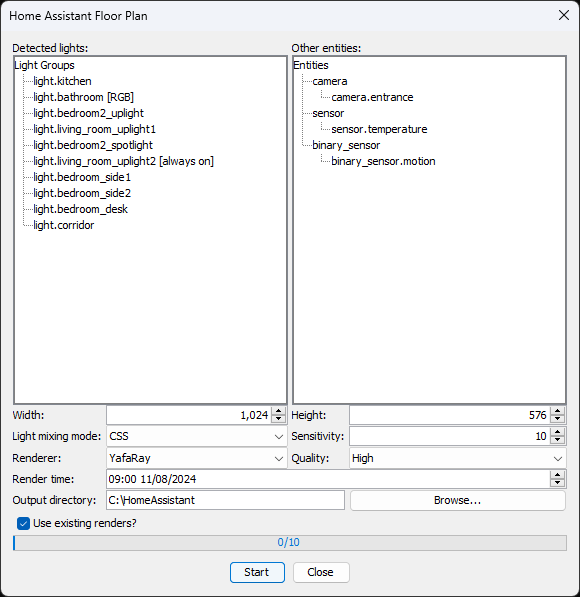
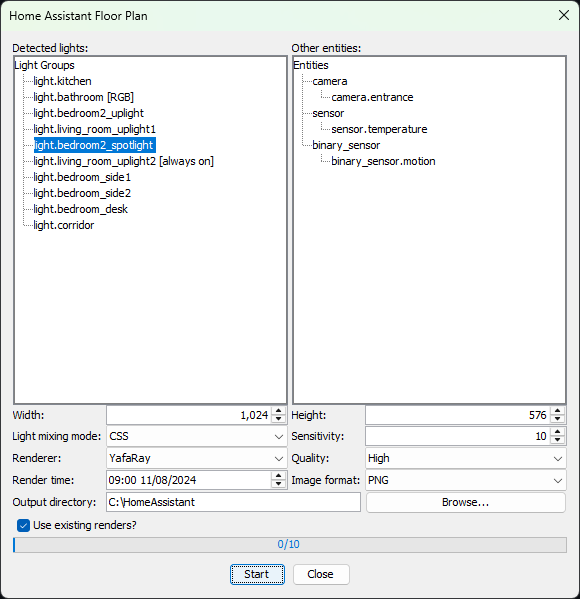
Allow exporting floor plan as JPEG images
Closes #92

diff --git a/src/com/shmuelzon/HomeAssistantFloorPlan/Controller.java b/src/com/shmuelzon/HomeAssistantFloorPlan/Controller.java
@@ -41,10 +41,11 @@ public class Controller {
     public enum LightMixingMode {CSS, OVERLAY, FULL}
     public enum Renderer {YAFARAY, SUNFLOW}
     public enum Quality {HIGH, LOW}
+    public enum ImageFormat {PNG, JPEG}
     public enum EntityDisplayType {BADGE, ICON, LABEL, NONE}
     public enum EntityTapAction {MORE_INFO, NONE, TOGGLE}
 
-    private static final String TRANSPARENT_FILE_NAME = "transparent.png";
+    private static final String TRANSPARENT_IMAGE_NAME = "transparent";
 
     private static final String CONTROLLER_RENDER_WIDTH = "renderWidth";
     private static final String CONTROLLER_RENDER_HEIGHT = "renderHeigh";
@@ -52,6 +53,7 @@ public class Controller {
     private static final String CONTROLLER_SENSITIVTY = "sensitivity";
     private static final String CONTROLLER_RENDERER = "renderer";
     private static final String CONTROLLER_QUALITY = "quality";
+    private static final String CONTROLLER_IMAGE_FORMAT = "imageFormat";
     private static final String CONTROLLER_RENDER_TIME = "renderTime";
     private static final String CONTROLLER_OUTPUT_DIRECTORY_NAME = "outputDirectoryName";
     private static final String CONTROLLER_USE_EXISTING_RENDERS = "useExistingRenders";
@@ -79,6 +81,7 @@ public class Controller {
     private int sensitivity;
     private Renderer renderer;
     private Quality quality;
+    private ImageFormat imageFormat;
     private long renderDateTime;
     private String outputDirectoryName;
     private String outputRendersDirectoryName;
@@ -126,6 +129,7 @@ public class Controller {
         sensitivity = settings.getInteger(CONTROLLER_SENSITIVTY, 10);
         renderer = Renderer.valueOf(settings.get(CONTROLLER_RENDERER, Renderer.YAFARAY.name()));
         quality = Quality.valueOf(settings.get(CONTROLLER_QUALITY, Quality.HIGH.name()));
+        imageFormat = ImageFormat.valueOf(settings.get(CONTROLLER_IMAGE_FORMAT, ImageFormat.PNG.name()));
         renderDateTime = settings.getLong(CONTROLLER_RENDER_TIME, camera.getTime());
         outputDirectoryName = settings.get(CONTROLLER_OUTPUT_DIRECTORY_NAME, System.getProperty("user.home"));
         outputRendersDirectoryName = outputDirectoryName + File.separator + "renders";
@@ -242,6 +246,15 @@ public class Controller {
         settings.set(CONTROLLER_QUALITY, quality.name());
     }
 
+    public ImageFormat getImageFormat() {
+        return imageFormat;
+    }
+
+    public void setImageFormat(ImageFormat imageFormat) {
+        this.imageFormat = imageFormat;
+        settings.set(CONTROLLER_IMAGE_FORMAT, imageFormat.name());
+    }
+
     public long getRenderDateTime() {
         return renderDateTime;
     }
@@ -328,9 +341,9 @@ public class Controller {
 
             camera.setTime(renderDateTime);
 
-            String yaml = generateBaseRender();
-            generateTransparentImage(outputFloorplanDirectoryName + File.separator + TRANSPARENT_FILE_NAME);
-            BufferedImage baseImage = ImageIO.read(Files.newInputStream(Paths.get(outputFloorplanDirectoryName + File.separator + "base.png")));
+            BufferedImage baseImage = generateBaseRender();
+            String yaml = generateBaseYaml();
+            generateTransparentImage(outputFloorplanDirectoryName + File.separator + TRANSPARENT_IMAGE_NAME + ".png");
             
             for (String group : lightsGroups.keySet())
                 yaml += generateGroupRenders(group, baseImage);
@@ -503,12 +516,22 @@ public class Controller {
         perspectiveTransform.mul(yawRotation);
     }
 
-    private String generateBaseRender() throws IOException, InterruptedException {
-        generateImage(new ArrayList<String>(), outputFloorplanDirectoryName + File.separator + "base.png");
+    private BufferedImage generateBaseRender() throws IOException, InterruptedException {
+        BufferedImage image = generateImage(new ArrayList<String>(), "base");
+        return generateFloorPlanImage(image, image, "base", false);
+    }
+
+    private String generateBaseYaml() throws IOException {
         return String.format(
             "type: picture-elements\n" +
-            "image: /local/floorplan/base.png?version=%s\n" +
-            "elements:\n", renderHash("base.png"));
+            "image: /local/floorplan/base.%s?version=%s\n" +
+            "elements:\n", getFloorplanImageExtention(), renderHash("base"));
+    }
+
+    private String getFloorplanImageExtention() {
+        if (this.lightMixingMode == LightMixingMode.OVERLAY)
+            return "png";
+        return this.imageFormat.name().toLowerCase();
     }
 
     private String generateGroupRenders(String group, BufferedImage baseImage) throws IOException, InterruptedException {
@@ -517,17 +540,16 @@ public class Controller {
         List<List<String>> lightCombinations = getCombinations(groupLights);
         String yaml = "";
         for (List<String> onLights : lightCombinations) {
-            String fileName = String.join("_", onLights) + ".png";
-            BufferedImage image = generateImage(onLights, outputRendersDirectoryName + File.separator + fileName);
+            String imageName = String.join("_", onLights);
+            BufferedImage image = generateImage(onLights, imageName);
             boolean createOverlayImage = lightMixingMode == LightMixingMode.OVERLAY || (lightMixingMode == LightMixingMode.CSS && getEntityIsRgb(onLights.get(0)));
-            BufferedImage floorPlanImage = generateFloorPlanImage(baseImage, image, outputFloorplanDirectoryName + File.separator + fileName, createOverlayImage);
+            BufferedImage floorPlanImage = generateFloorPlanImage(baseImage, image, imageName, createOverlayImage);
             if (getEntityIsRgb(onLights.get(0))) {
-                String redTintedFileName = String.join("_", onLights) + ".red.png";
-                generateRedTintedImage(floorPlanImage, outputFloorplanDirectoryName + File.separator + redTintedFileName);
-                yaml += generateRgbLightYaml(onLights.get(0), fileName, redTintedFileName);
+                generateRedTintedImage(floorPlanImage, imageName);
+                yaml += generateRgbLightYaml(onLights.get(0), imageName);
             }
             else
-                yaml += generateLightYaml(groupLights, onLights, fileName);
+                yaml += generateLightYaml(groupLights, onLights, imageName);
         }
         return yaml;
     }
@@ -539,7 +561,9 @@ public class Controller {
         ImageIO.write(image, "png", imageFile);
     }
 
-    private BufferedImage generateImage(List<String> onLights, String fileName) throws IOException, InterruptedException {
+    private BufferedImage generateImage(List<String> onLights, String name) throws IOException, InterruptedException {
+        String fileName = outputRendersDirectoryName + File.separator + name + ".png";
+
         if (useExistingRenders && Files.exists(Paths.get(fileName))) {
             propertyChangeSupport.firePropertyChange(Property.COMPLETED_RENDERS.name(), numberOfCompletedRenders, ++numberOfCompletedRenders);
             return ImageIO.read(Files.newInputStream(Paths.get(fileName)));
@@ -581,11 +605,12 @@ public class Controller {
         return image;
     }
 
-    private BufferedImage generateFloorPlanImage(BufferedImage baseImage, BufferedImage image, String fileName, boolean createOverlayImage) throws IOException {
-        File floorPlanFile = new File(fileName);
+    private BufferedImage generateFloorPlanImage(BufferedImage baseImage, BufferedImage image, String name, boolean createOverlayImage) throws IOException {
+        String imageExtension = createOverlayImage ? "png" : getFloorplanImageExtention();
+        File floorPlanFile = new File(outputFloorplanDirectoryName + File.separator + name + "." + imageExtension);
 
         if (!createOverlayImage) {
-            ImageIO.write(image, "png", floorPlanFile);
+            ImageIO.write(image, imageExtension, floorPlanFile);
             return image;
         }
 
@@ -610,8 +635,8 @@ public class Controller {
         return diff / 3;
     }
 
-    private BufferedImage generateRedTintedImage(BufferedImage image, String fileName) throws IOException {
-        File redTintedFile = new File(fileName);
+    private BufferedImage generateRedTintedImage(BufferedImage image, String imageName) throws IOException {
+        File redTintedFile = new File(outputFloorplanDirectoryName + File.separator + imageName + ".red.png");
         BufferedImage tintedImage = new BufferedImage(image.getWidth(), image.getHeight(), BufferedImage.TYPE_INT_ARGB);
 
         for(int x = 0; x < image.getWidth(); x++) {
@@ -641,8 +666,13 @@ public class Controller {
         return new String(hexChars);
     }
 
-    private String renderHash(String fileName) throws IOException {
-        byte[] content = Files.readAllBytes(Paths.get(outputFloorplanDirectoryName + File.separator + fileName));
+    private String renderHash(String imageName) throws IOException {
+        return renderHash(imageName, false);
+    }
+
+    private String renderHash(String imageName, boolean forcePng) throws IOException {
+        String imageExtension = forcePng ? "png" : getFloorplanImageExtention();
+        byte[] content = Files.readAllBytes(Paths.get(outputFloorplanDirectoryName + File.separator + imageName + "." + imageExtension));
         try {
             byte[] hash = MessageDigest.getInstance("MD5").digest(content);
             return bytesToHex(hash);
@@ -651,7 +681,7 @@ public class Controller {
         }
     }
 
-    private String generateLightYaml(List<String> lightsNames, List<String> onLights, String fileName) throws IOException {
+    private String generateLightYaml(List<String> lightsNames, List<String> onLights, String imageName) throws IOException {
         String conditions = "";
         for (String lightName : lightsNames) {
             conditions += String.format(
@@ -677,17 +707,17 @@ public class Controller {
             "        hold_action:\n" +
             "          action: none\n" +
             "        entity:\n%s" +
-            "        image: /local/floorplan/%s?version=%s\n" +
+            "        image: /local/floorplan/%s.%s?version=%s\n" +
             "        filter: none\n" +
             "        style:\n" +
             "          left: 50%%\n" +
             "          top: 50%%\n" +
             "          width: 100%%\n%s",
-            conditions, entities, fileName, renderHash(fileName),
+            conditions, entities, imageName, getFloorplanImageExtention(), renderHash(imageName),
             lightMixingMode == LightMixingMode.CSS ? "          mix-blend-mode: lighten\n" : "");
     }
 
-    private String generateRgbLightYaml(String lightName, String fileName, String redTintedFileName) throws IOException {
+    private String generateRgbLightYaml(String lightName, String imageName) throws IOException {
         return String.format(
             "  - type: custom:config-template-card\n" +
             "    variables:\n" +
@@ -699,12 +729,12 @@ public class Controller {
             "      - %s\n" +
             "    element:\n" +
             "      type: image\n" +
-            "      image: /local/floorplan/%s?version=%s\n" +
+            "      image: /local/floorplan/%s.png?version=%s\n" +
             "      state_image:\n" +
             "        'on': >-\n" +
             "          ${COLOR_MODE === 'color_temp' || (COLOR_MODE === 'rgb' && LIGHT_COLOR && LIGHT_COLOR[0] == 0 && LIGHT_COLOR[1] == 0) ?\n" +
-            "          '/local/floorplan/%s?version=%s' :\n" +
-            "          '/local/floorplan/%s?version=%s' }\n" +
+            "          '/local/floorplan/%s.png?version=%s' :\n" +
+            "          '/local/floorplan/%s.png?version=%s' }\n" +
             "      entity: %s\n" +
             "    style:\n" +
             "      filter: '${ \"hue-rotate(\" + (LIGHT_COLOR ? LIGHT_COLOR[0] : 0) + \"deg)\"}'\n" +
@@ -714,8 +744,8 @@ public class Controller {
             "      left: 50%%\n" +
             "      top: 50%%\n" +
             "      width: 100%%\n",
-            lightName, lightName, lightName, lightName, lightName, TRANSPARENT_FILE_NAME, renderHash(TRANSPARENT_FILE_NAME),
-            fileName, renderHash(fileName), redTintedFileName, renderHash(redTintedFileName), lightName);
+            lightName, lightName, lightName, lightName, lightName, TRANSPARENT_IMAGE_NAME, renderHash(TRANSPARENT_IMAGE_NAME, true),
+            imageName, renderHash(imageName, true), imageName + ".red", renderHash(imageName + ".red", true), lightName);
     }
 
     private void restoreLightsPower(Map<HomeLight, Float> lightsPower) {

diff --git a/src/com/shmuelzon/HomeAssistantFloorPlan/Panel.java b/src/com/shmuelzon/HomeAssistantFloorPlan/Panel.java
@@ -99,6 +99,8 @@ public class Panel extends JPanel implements DialogView {
     private JTextField outputDirectoryTextField;
     private JLabel renderTimeLabel;
     private JSpinner renderTimeSpinner;
+    private JLabel imageFormatLabel;
+    private JComboBox<Controller.ImageFormat> imageFormatComboBox;
     private JButton outputDirectoryBrowseButton;
     private FileContentManager outputDirectoryChooser;
     private JCheckBox useExistingRendersCheckbox;
@@ -371,6 +373,23 @@ public class Panel extends JPanel implements DialogView {
             }
         });
 
+        imageFormatLabel = new JLabel();
+        imageFormatLabel.setText(resource.getString("HomeAssistantFloorPlan.Panel.imageFormatLabel.text"));
+        imageFormatComboBox = new JComboBox<Controller.ImageFormat>(Controller.ImageFormat.values());
+        imageFormatComboBox.setSelectedItem(controller.getImageFormat());
+        imageFormatComboBox.setRenderer(new DefaultListCellRenderer() {
+            public Component getListCellRendererComponent(JList<?> jList, Object o, int i, boolean b, boolean b1) {
+                Component rendererComponent = super.getListCellRendererComponent(jList, o, i, b, b1);
+                setText(resource.getString(String.format("HomeAssistantFloorPlan.Panel.imageFormatComboBox.%s.text", ((Controller.ImageFormat)o).name())));
+                return rendererComponent;
+            }
+        });
+        imageFormatComboBox.addActionListener(new ActionListener() {
+            public void actionPerformed(ActionEvent ev) {
+                controller.setImageFormat((Controller.ImageFormat)imageFormatComboBox.getSelectedItem());
+            }
+        });
+
         useExistingRendersCheckbox = new JCheckBox();
         useExistingRendersCheckbox.setText(resource.getString("HomeAssistantFloorPlan.Panel.useExistingRenders.text"));
         useExistingRendersCheckbox.setToolTipText(resource.getString("HomeAssistantFloorPlan.Panel.useExistingRenders.tooltip"));
@@ -432,6 +451,8 @@ public class Panel extends JPanel implements DialogView {
         sensitivitySpinner.setEnabled(enabled);
         rendererComboBox.setEnabled(enabled);
         qualityComboBox.setEnabled(enabled);
+        renderTimeSpinner.setEnabled(enabled);
+        imageFormatComboBox.setEnabled(enabled);
         outputDirectoryTextField.setEnabled(enabled);
         outputDirectoryBrowseButton.setEnabled(enabled);
         if (enabled) {
@@ -523,8 +544,14 @@ public class Panel extends JPanel implements DialogView {
                 0, currentGridYIndex, 1, 1, 0, 0, GridBagConstraints.CENTER,
                 GridBagConstraints.HORIZONTAL, insets, 0, 0));
         add(renderTimeSpinner, new GridBagConstraints(
-                1, currentGridYIndex, 3, 1, 0, 0, GridBagConstraints.CENTER,
+                1, currentGridYIndex, 1, 1, 0, 0, GridBagConstraints.CENTER,
                 GridBagConstraints.HORIZONTAL, insets, 0, 0));
+        add(imageFormatLabel, new GridBagConstraints(
+            2, currentGridYIndex, 1, 1, 0, 0, GridBagConstraints.CENTER,
+            GridBagConstraints.HORIZONTAL, insets, 0, 0));
+        add(imageFormatComboBox, new GridBagConstraints(
+            3, currentGridYIndex, 1, 1, 0, 0, GridBagConstraints.CENTER,
+            GridBagConstraints.HORIZONTAL, insets, 0, 0));
         currentGridYIndex++;
 
         /* Output directory */

diff --git a/README.md b/README.md
@@ -90,8 +90,9 @@ the room they're located in. Please verify the list matches your expectations.
   Only relevant for "room overlay" light mixing mode and RGB lights
 * Renderer - Select which rendering engine to use, YafaRay or SunFlow
 * Quality - Choose the rendering quality (low or high)
-* Render Time - The date and time of the rendered image, affects the sun
+* Render time - The date and time of the rendered image, affects the sun
   position
+* Image format - The image file format of the resulting floor plan (PNG or JPEG)
 * Output directory - The location on your PC where the floor plan images and
   YAML will be saved
 
